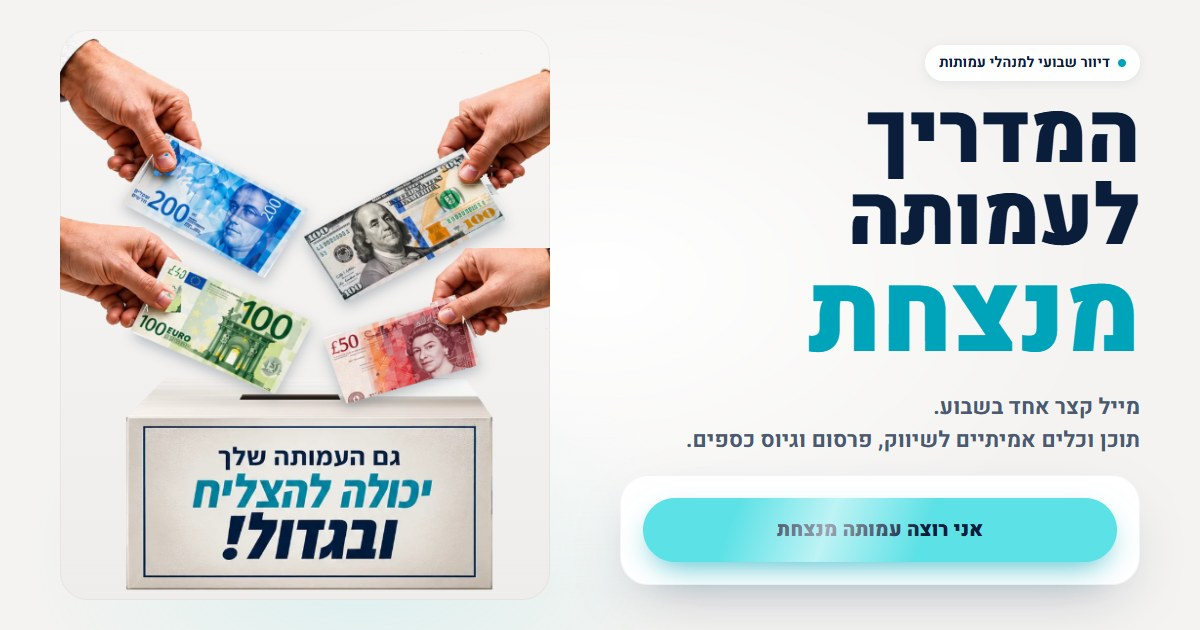
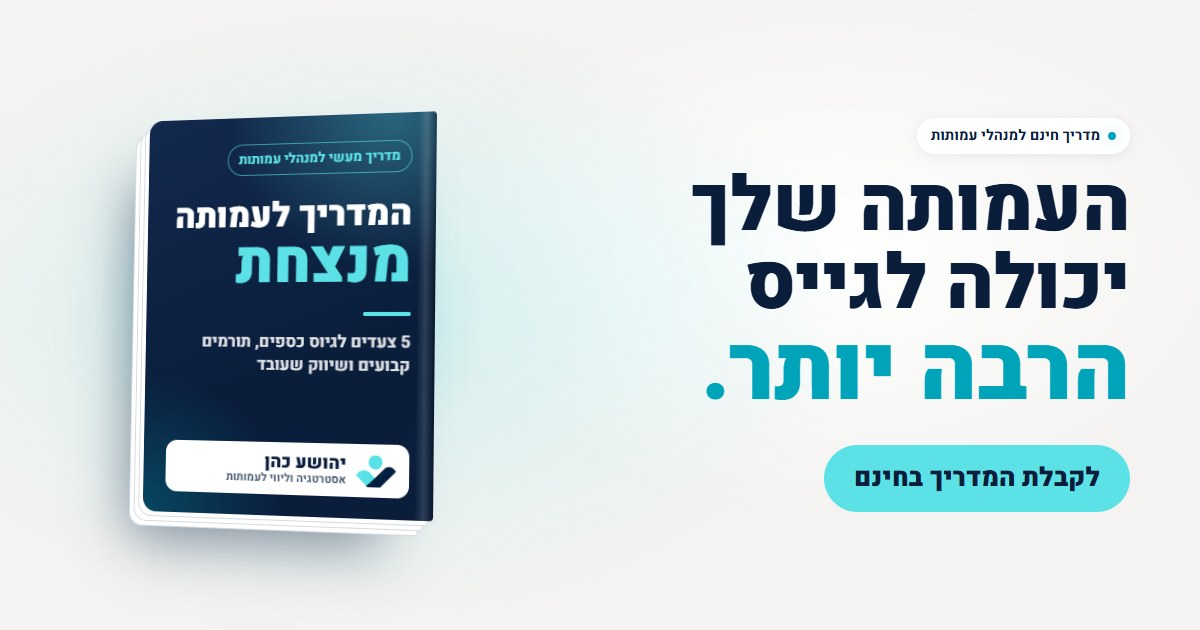
דף נחיתה חדש: קבלת המדריך לעמותה מנצחת במקום הרשמה לדיוור

diff --git a/index.html b/index.html
@@ -3,21 +3,21 @@
 <head>
 <meta charset="utf-8">
 <meta name="viewport" content="width=device-width, initial-scale=1, viewport-fit=cover">
-<title>המדריך לעמותה מנצחת | יהושע כהן</title>
-<meta name="description" content="מייל קצר אחד בשבוע למנהלי עמותות: תוכן וכלים אמיתיים לשיווק, פרסום וגיוס כספים.">
+<title>המדריך לעמותה מנצחת | מדריך חינם למנהלי עמותות | יהושע כהן</title>
+<meta name="description" content="מדריך חינם למנהלי עמותות: 5 צעדים מעשיים לגיוס כספים, תורמים קבועים ושיווק שעובד.">
 <meta name="theme-color" content="#0A1E3C">
 <meta property="og:type" content="website">
 <meta property="og:locale" content="he_IL">
-<meta property="og:title" content="המדריך לעמותה מנצחת">
-<meta property="og:description" content="מייל קצר אחד בשבוע: תוכן וכלים אמיתיים לשיווק, פרסום וגיוס כספים לעמותה שלך.">
-<meta property="og:image" content="https://yehoshua.co.il/assets/og.jpg">
+<meta property="og:title" content="המדריך לעמותה מנצחת – מדריך חינם למנהלי עמותות">
+<meta property="og:description" content="5 צעדים מעשיים לגיוס כספים, תורמים קבועים ושיווק שעובד. ישר למייל, בחינם.">
+<meta property="og:image" content="https://yehoshua.co.il/assets/og.jpg?v=guide1">
 <meta property="og:image:width" content="1200">
 <meta property="og:image:height" content="630">
 <meta property="og:url" content="https://yehoshua.co.il/">
 <link rel="icon" type="image/png" href="assets/favicon.png">
 <link rel="apple-touch-icon" href="assets/apple-touch-icon.png">
 <link rel="preload" href="assets/heebo-hebrew-900-normal.woff2" as="font" type="font/woff2" crossorigin>
-<link rel="stylesheet" href="styles.css?v=consent1">
+<link rel="stylesheet" href="styles.css?v=guide1">
 </head>
 <body>
 
@@ -26,18 +26,36 @@
     <img src="assets/mark.webp" alt="" width="54" height="40">
     <span><b>יהושע כהן</b><small>אסטרטגיה וליווי לעמותות</small></span>
   </a>
-  <a class="top-cta" href="#join">להצטרפות</a>
+  <a class="top-cta" href="#join">לקבלת המדריך</a>
 </header>
 
 <main>
   <!-- HERO -->
   <section class="hero" id="join">
-    <div class="hero-copy">
-      <p class="eyebrow"><span class="dot"></span>דיוור שבועי למנהלי עמותות</p>
-      <h1>המדריך לעמותה <em>מנצחת</em></h1>
-      <p class="lead">מייל קצר אחד בשבוע.<br>תוכן וכלים אמיתיים לשיווק, פרסום וגיוס כספים.</p>
+    <div class="hero-head">
+      <p class="eyebrow"><span class="dot"></span>מדריך חינם למנהלי עמותות</p>
+      <h1>העמותה שלך יכולה לגייס <em>הרבה יותר.</em></h1>
+      <p class="lead"><b>המדריך לעמותה מנצחת:</b> 5 צעדים מעשיים לגיוס כספים, לתורמים קבועים ולשיווק שעובד. מניסיון של 7 שנים בניהול עמותה.</p>
+    </div>
 
+    <div class="book-wrap" aria-hidden="true">
+      <div class="book">
+        <div class="cover">
+          <p class="cover-kicker">מדריך מעשי למנהלי עמותות</p>
+          <p class="cover-title">המדריך לעמותה <em>מנצחת</em></p>
+          <span class="cover-line"></span>
+          <p class="cover-sub">5 צעדים לגיוס כספים, תורמים קבועים ושיווק שעובד</p>
+          <div class="cover-brand">
+            <img src="assets/mark.webp" alt="" width="54" height="40">
+            <span><b>יהושע כהן</b><small>אסטרטגיה וליווי לעמותות</small></span>
+          </div>
+        </div>
+      </div>
+    </div>
+
+    <div class="hero-form">
       <form class="signup" data-form novalidate>
+        <p class="form-title">לאן לשלוח לך את המדריך?</p>
         <div class="field">
           <label for="f-name">שם מלא</label>
           <input id="f-name" name="name" type="text" autocomplete="name" required maxlength="80" placeholder="ישראל ישראלי">
@@ -50,54 +68,71 @@
         <input class="hp" name="website" tabindex="-1" autocomplete="off" aria-hidden="true">
         <label class="consent">
           <input type="checkbox" name="agree" value="yes">
-          <span data-consent-text>אני מאשר/ת לקבל מיהושע כהן את המייל השבועי "המדריך לעמותה מנצחת", הכולל תוכן מקצועי וגם דברי פרסומת. אפשר להסיר בכל רגע בלחיצה על "הסרה" בתחתית כל מייל.</span>
+          <span data-consent-text>אני מאשר/ת לקבל מיהושע כהן את המדריך במייל, ומדי פעם גם תוכן מקצועי, עדכונים והצעות (כולל דברי פרסומת). אפשר להסיר בכל רגע בלחיצה על "הסרה" בתחתית כל מייל.</span>
         </label>
-        <button type="submit" class="btn"><span>אני רוצה עמותה מנצחת</span></button>
-        <p class="fine">הפרטים שלך ישמשו רק לשליחת הדיוור, ולא יועברו לאף אחד.</p>
+        <button type="submit" class="btn"><span>אני רוצה את המדריך</span></button>
+        <p class="fine">חינם. המדריך נשלח ישר למייל שלך, והפרטים לא יועברו לאף אחד.</p>
         <p class="error" role="alert" data-error hidden></p>
       </form>
 
       <div class="done" data-done hidden tabindex="-1">
         <div class="done-check" aria-hidden="true"></div>
-        <h2>נרשמת, <span data-done-name></span>!</h2>
-        <p>המייל הראשון כבר בדרך אליך.</p>
-        <a class="btn btn-ghost" data-share target="_blank" rel="noopener">שתפו מנהל עמותה שאתם מכירים</a>
+        <h2>המדריך בדרך אליך, <span data-done-name></span>!</h2>
+        <p>שלחנו אותו עכשיו למייל שלך. לא רואה אותו? כדאי לבדוק גם בתיקיית "קידומי מכירות" או "ספאם".</p>
+        <a class="btn btn-ghost" data-share target="_blank" rel="noopener">שתף מנהל עמותה שאתה מכיר</a>
       </div>
-    </div>
-
-    <div class="stage-wrap" aria-hidden="true">
-      <canvas class="stage" data-stage></canvas>
     </div>
   </section>
 
   <!-- PAIN -->
   <section class="pain" data-reveal-group>
-    <p class="pain-line" data-reveal>יש לכם פעילות <b>חשובה מאוד.</b></p>
+    <p class="pain-line" data-reveal>יש לך פעילות <b>חשובה מאוד.</b></p>
     <p class="pain-line" data-reveal>אבל כדי לעשות אותה צריך <b>כסף ומשאבים.</b></p>
     <p class="pain-line pain-empty" data-reveal>והקופה... <b>ריקה.</b></p>
-    <p class="pain-turn" data-reveal>בואו נשנה את זה!</p>
+    <p class="pain-turn" data-reveal>בוא נשנה את זה!</p>
   </section>
 
-  <!-- WHAT YOU GET -->
+  <!-- WHAT'S IN THE GUIDE -->
   <section class="get">
-    <h2 class="sec-title" data-reveal>מה מגיע אליכם <em>כל שבוע</em></h2>
-    <div class="cards">
-      <article class="card" data-reveal>
-        <svg class="ic" viewBox="-60 -50 120 100" aria-hidden="true"><rect x="-48" y="-32" width="96" height="64" rx="8"/><path d="M-44-28 0 6 44-28M-44 28-14-2M44 28 14-2"/></svg>
-        <h3>מייל אחד. קצר. לעניין.</h3>
-        <p>פעם בשבוע, בלי הצפות ובלי חפירות.</p>
-      </article>
-      <article class="card" data-reveal>
-        <svg class="ic" viewBox="-60 -50 120 100" aria-hidden="true"><path d="M-30-2-8 20 36-28"/></svg>
-        <h3>תוכן וכלים אמיתיים</h3>
-        <p>דברים שאפשר ליישם בעמותה כבר מחר בבוקר.</p>
-      </article>
-      <article class="card" data-reveal>
-        <svg class="ic" viewBox="-60 -50 120 100" aria-hidden="true"><circle r="40"/><path d="M0-40V-26M0 26V40M-40 0H-26M26 0H40"/><path d="M-10 10 14-14M4-14H14V-4"/></svg>
-        <h3>מכל הכיוונים</h3>
-        <p>שיווק, פרסום וגיוס כספים — כל מה שעמותה צריכה כדי לצמוח.</p>
-      </article>
-    </div>
+    <h2 class="sec-title" data-reveal><em>5 דברים</em> שתקבל במדריך</h2>
+    <ol class="steps">
+      <li class="step" data-reveal>
+        <span class="step-n">1</span>
+        <div><h3>תוכנית גיוס שנתית בעמוד אחד</h3>
+        <p>כמה צריך, ממי ומתי. במקום לרדוף אחרי הכסף מחודש לחודש.</p></div>
+      </li>
+      <li class="step" data-reveal>
+        <span class="step-n">2</span>
+        <div><h3>איך הופכים תורם חד־פעמי לתורם קבוע</h3>
+        <p>מה עושים מיד אחרי התרומה הראשונה, כדי שהתורם יחזור שוב ושוב.</p></div>
+      </li>
+      <li class="step" data-reveal>
+        <span class="step-n">3</span>
+        <div><h3>הסיפור שפותח את הלב ואת הכיס</h3>
+        <p>איך לספר על הפעילות שלך כך שתורמים ירצו להיות חלק ממנה.</p></div>
+      </li>
+      <li class="step" data-reveal>
+        <span class="step-n">4</span>
+        <div><h3>שיווק לעמותה בלי תקציב פרסום</h3>
+        <p>וואטסאפ, מייל וקהילה: הכלים שעובדים היום, ואיך משתמשים בהם נכון.</p></div>
+      </li>
+      <li class="step" data-reveal>
+        <span class="step-n">5</span>
+        <div><h3>הטעויות שעולות לעמותות הכי הרבה כסף</h3>
+        <p>מה למדתי ב־7 שנים בשטח, כדי שאתה לא תצטרך ללמוד את זה בדרך הקשה.</p></div>
+      </li>
+    </ol>
+    <div class="get-cta" data-reveal><a class="btn" href="#join">אני רוצה את המדריך</a></div>
+  </section>
+
+  <!-- FOR WHOM -->
+  <section class="for">
+    <h2 class="sec-title" data-reveal>המדריך הזה <em>בשבילך</em> אם...</h2>
+    <ul class="for-list">
+      <li data-reveal>אתה מנהל עמותה או מוסד, ורוצה יציבות כלכלית אמיתית</li>
+      <li data-reveal>אתה מגייס כספים, ורוצה להביא יותר תורמים ולשמור עליהם</li>
+      <li data-reveal>נמאס לך לסיים כל חודש בלחץ של משכורות ותשלומים</li>
+    </ul>
   </section>
 
   <!-- WHO -->
@@ -105,10 +140,10 @@
     <div class="who-card" data-reveal>
       <img src="assets/logo.webp" alt="יהושע כהן — אסטרטגיה וליווי לעמותות" width="220" height="220" loading="lazy">
       <div>
-        <p class="who-kicker">מי כותב</p>
+        <p class="who-kicker">מי כתב את המדריך</p>
         <h2>7 שנים ניהלתי עמותה.</h2>
         <p class="who-words"><span>גייסתי.</span> <span>בניתי.</span> <span>ניהלתי.</span> <span>טעיתי.</span> <span>למדתי.</span> <span>הצלחתי.</span></p>
-        <p>ולמדתי מה באמת עובד. היום אני מביא את זה אליכם — מייל אחד בכל שבוע.</p>
+        <p>את מה שלמדתי בדרך, מה עובד, מה לא ומה הייתי עושה אחרת, כתבתי במדריך הזה. בשבילך.</p>
       </div>
     </div>
   </section>
@@ -116,9 +151,9 @@
   <!-- FINAL CTA -->
   <section class="final">
     <div class="final-card" data-reveal>
-      <h2>רוצים עמותה <em>מנצחת?</em></h2>
-      <p>הצטרפו לרשימת התפוצה.</p>
-      <a class="btn" href="#join" data-tojoin>להצטרפות</a>
+      <h2>מוכן לעמותה <em>מנצחת?</em></h2>
+      <p>המדריך מחכה לך. חינם, ישר למייל.</p>
+      <a class="btn" href="#join">לקבלת המדריך</a>
     </div>
   </section>
 </main>
@@ -129,9 +164,8 @@
   <p><a href="https://wa.me/972504167903" target="_blank" rel="noopener" dir="ltr">050-4167903</a></p>
 </footer>
 
-<a class="sticky-cta" href="#join" data-sticky>אני רוצה עמותה מנצחת</a>
+<a class="sticky-cta" href="#join" data-sticky>אני רוצה את המדריך</a>
 
-<script src="stage.js"></script>
-<script src="app.js?v=consent1"></script>
+<script src="app.js?v=guide1"></script>
 </body>
 </html>

diff --git a/styles.css b/styles.css
@@ -30,19 +30,23 @@ em{font-style:normal;color:var(--teal)}
 .top-cta:hover{transform:translateY(-1px)}
 
 /* hero */
-.hero{position:relative;display:grid;grid-template-columns:1fr;gap:8px;max-width:1200px;margin:0 auto;padding:28px clamp(16px,4vw,48px) 40px;scroll-margin-top:80px}
+.hero{position:relative;display:grid;grid-template-columns:1fr;grid-template-areas:"head" "book" "form";gap:8px;max-width:1200px;margin:0 auto;padding:28px clamp(16px,4vw,48px) 40px;scroll-margin-top:80px}
 .hero::before{content:"";position:absolute;inset:-80px 0 auto;height:900px;z-index:-1;
   background:radial-gradient(60% 50% at 50% 40%,#fff 0%,rgba(255,255,255,0) 70%),radial-gradient(40% 35% at 30% 70%,rgba(92,225,230,.16),rgba(92,225,230,0) 70%)}
 .eyebrow{display:inline-flex;align-items:center;gap:8px;margin:0 0 14px;padding:7px 14px;border-radius:999px;background:#fff;box-shadow:0 2px 10px rgba(10,30,60,.08);font-weight:700;font-size:14.5px}
 .dot{width:8px;height:8px;border-radius:50%;background:var(--teal);box-shadow:0 0 0 0 rgba(0,164,186,.5);animation:ping 2s infinite}
 @keyframes ping{70%{box-shadow:0 0 0 10px rgba(0,164,186,0)}100%{box-shadow:0 0 0 0 rgba(0,164,186,0)}}
-h1{margin:0;font-weight:900;font-size:clamp(42px,9.6vw,84px);line-height:.98;letter-spacing:-.5px}
-h1 em{display:block;font-size:1.32em;line-height:1.02}
-.lead{margin:18px 0 22px;font-size:clamp(18px,2.2vw,22px);font-weight:700;color:var(--muted)}
+.hero-head{grid-area:head}
+.hero-form{grid-area:form}
+h1{margin:0;font-weight:900;font-size:clamp(38px,8.4vw,70px);line-height:1.02;letter-spacing:-.5px;text-wrap:balance}
+h1 em{display:block;font-size:1.2em;line-height:1.05}
+.lead{margin:18px 0 8px;font-size:clamp(18px,2.2vw,22px);font-weight:400;color:var(--muted);max-width:560px}
+.lead b{font-weight:900;color:var(--navy)}
 
 /* form */
 .signup{position:relative}
 .signup,.done{background:#fff;border-radius:var(--radius);padding:22px;box-shadow:var(--shadow);border:1px solid rgba(10,30,60,.05);max-width:520px}
+.form-title{margin:0 4px 14px;font-size:21px;font-weight:900}
 .field{margin-bottom:14px}
 .field label{display:block;font-weight:900;font-size:15px;margin:0 4px 6px}
 .field input{width:100%;font:inherit;font-size:18px;font-weight:700;color:var(--ink);padding:15px 16px;border-radius:16px;border:2px solid var(--line);background:#fbfbfa;transition:border-color .2s,box-shadow .2s,background .2s}
@@ -81,10 +85,27 @@ h1 em{display:block;font-size:1.32em;line-height:1.02}
 .btn-ghost::after{display:none}
 @keyframes pop{from{transform:scale(.9);opacity:0}}
 
-/* stage */
-.stage-wrap{position:relative;margin:14px auto 0;width:100%;max-width:520px;aspect-ratio:835/1070;border-radius:var(--radius);overflow:hidden;
-  background:linear-gradient(180deg,#f7f6f4 0%,var(--paper-2) 100%);box-shadow:inset 0 0 0 1px rgba(10,30,60,.05)}
-.stage{width:100%;height:100%;display:block}
+/* guide book */
+.book-wrap{grid-area:book;position:relative;display:grid;place-items:center;padding:14px 0 30px;perspective:1600px}
+.book-wrap::before{content:"";position:absolute;inset:0 6%;background:radial-gradient(closest-side,rgba(92,225,230,.38),rgba(92,225,230,0));z-index:-1}
+.book{position:relative;width:min(50vw,210px);aspect-ratio:3/4;container-type:inline-size;transform:rotateY(-16deg) rotateX(3deg);animation:float 7s ease-in-out infinite;
+  border-radius:14px 4px 4px 14px;
+  box-shadow:-5px 5px 0 -1px #fff,-5px 5px 0 0 #d5dae1,-10px 10px 0 -1px #fff,-10px 10px 0 0 #d5dae1,-15px 15px 0 -1px #fff,-15px 15px 0 0 #d5dae1,-34px 44px 60px -18px rgba(10,30,60,.5)}
+@keyframes float{50%{transform:rotateY(-12deg) rotateX(3deg) translateY(-10px)}}
+.cover{position:absolute;inset:0;display:flex;flex-direction:column;padding:9cqw 8cqw 7cqw;border-radius:inherit;overflow:hidden;color:#fff;
+  background:radial-gradient(80% 55% at 85% 0%,rgba(92,225,230,.34),rgba(92,225,230,0) 70%),radial-gradient(70% 50% at 0% 100%,rgba(0,164,186,.30),rgba(0,164,186,0) 70%),linear-gradient(160deg,#13294d,var(--navy) 60%)}
+.cover::after{content:"";position:absolute;top:0;bottom:0;right:0;width:6cqw;background:linear-gradient(90deg,rgba(255,255,255,0),rgba(255,255,255,.14) 45%,rgba(0,0,0,.28))}
+.cover p{margin:0;position:relative}
+.cover-kicker{align-self:flex-start;padding:1.6cqw 3.6cqw;border-radius:999px;border:1.5px solid rgba(92,225,230,.6);color:var(--cyan);font-weight:700;font-size:4.6cqw}
+.cover-title{margin-top:8cqw!important;font-weight:900;font-size:11.6cqw;line-height:1.02}
+.cover-title em{display:block;color:var(--cyan);font-size:1.72em;line-height:1}
+.cover-line{display:block;width:16cqw;height:1.6cqw;margin:6cqw 0 5cqw;border-radius:9px;background:var(--cyan)}
+.cover-sub{font-size:5.6cqw;font-weight:700;line-height:1.35;opacity:.86}
+.cover-brand{margin-top:auto;display:flex;align-items:center;gap:3cqw;padding:3.2cqw 4cqw;border-radius:4cqw;background:#fff;color:var(--navy);position:relative}
+.cover-brand img{width:14cqw;height:auto}
+.cover-brand span{display:flex;flex-direction:column;line-height:1.1}
+.cover-brand b{font-weight:900;font-size:6cqw}
+.cover-brand small{font-weight:700;font-size:3.8cqw;color:var(--muted)}
 
 /* pain */
 .pain{max-width:1000px;margin:40px auto 0;padding:72px clamp(20px,5vw,48px);background:linear-gradient(180deg,#e3e5e9,#d9dce2);border-radius:clamp(0px,3vw,40px);text-align:center}
@@ -93,14 +114,22 @@ h1 em{display:block;font-size:1.32em;line-height:1.02}
 .pain-empty b{font-size:1.35em}
 .pain-turn{display:inline-block;margin:26px 0 0;font-size:clamp(36px,7.6vw,68px);font-weight:900;color:var(--teal);text-shadow:0 0 30px rgba(92,225,230,.35)}
 
-/* cards */
+/* what is in the guide */
 .get{max-width:1200px;margin:0 auto;padding:84px clamp(16px,4vw,48px) 40px}
 .sec-title{margin:0 0 34px;text-align:center;font-size:clamp(32px,6vw,54px);font-weight:900;line-height:1.1}
-.cards{display:grid;grid-template-columns:1fr;gap:16px}
-.card{background:#fff;border-radius:var(--radius);padding:28px 24px;box-shadow:0 10px 30px -18px rgba(10,30,60,.35);border:1px solid rgba(10,30,60,.05)}
-.card .ic{width:64px;height:54px;fill:none;stroke:var(--teal);stroke-width:8;stroke-linecap:round;stroke-linejoin:round;margin-bottom:10px}
-.card h3{margin:0 0 6px;font-size:24px;font-weight:900}
-.card p{margin:0;font-size:17.5px;color:var(--muted);font-weight:400}
+.steps{list-style:none;margin:0 auto;padding:0;max-width:860px;display:grid;gap:14px}
+.step{display:flex;align-items:flex-start;gap:18px;background:#fff;border-radius:var(--radius);padding:22px 22px;box-shadow:0 10px 30px -18px rgba(10,30,60,.35);border:1px solid rgba(10,30,60,.05)}
+.step-n{flex:none;display:grid;place-items:center;width:52px;height:52px;border-radius:50%;background:var(--navy);color:var(--cyan);font-weight:900;font-size:26px;line-height:1}
+.step h3{margin:2px 0 4px;font-size:clamp(20px,2.6vw,24px);font-weight:900;line-height:1.25}
+.step p{margin:0;font-size:17.5px;color:var(--muted)}
+.get-cta{max-width:420px;margin:30px auto 0}
+
+/* for whom */
+.for{max-width:1000px;margin:0 auto;padding:44px clamp(16px,4vw,48px) 20px}
+.for-list{list-style:none;margin:0 auto;padding:0;max-width:760px;display:grid;gap:12px}
+.for-list li{position:relative;padding:18px 62px 18px 20px;border-radius:20px;background:#fff;border:1px solid rgba(10,30,60,.06);font-size:clamp(18px,2.2vw,21px);font-weight:700;line-height:1.4}
+.for-list li::before{content:"";position:absolute;right:20px;top:50%;width:28px;height:28px;margin-top:-14px;border-radius:50%;background:var(--cyan)}
+.for-list li::after{content:"";position:absolute;right:30px;top:50%;width:7px;height:13px;margin-top:-9px;border:solid var(--navy);border-width:0 3px 3px 0;transform:rotate(45deg)}
 
 /* who */
 .who{max-width:1000px;margin:0 auto;padding:40px clamp(16px,4vw,48px)}
@@ -139,14 +168,16 @@ h1 em{display:block;font-size:1.32em;line-height:1.02}
 .pain-turn[data-reveal].in{transform:none;transition:opacity .5s,transform .6s cubic-bezier(.2,1.6,.4,1)}
 
 @media (min-width:720px){
-  .cards{grid-template-columns:repeat(3,1fr)}
+  .step{padding:26px 28px}
   .who-card{grid-template-columns:220px 1fr;text-align:right;padding:36px}
   .who-card img{width:220px}
   .who-words{justify-content:flex-start}
 }
 @media (min-width:960px){
-  .hero{grid-template-columns:1.05fr .95fr;gap:48px;align-items:center;padding-top:56px;padding-bottom:64px;min-height:calc(100vh - 70px)}
-  .stage-wrap{margin:0;max-width:none}
+  .hero{grid-template-columns:1.1fr .9fr;grid-template-areas:"head book" "form book";column-gap:56px;row-gap:22px;align-items:center;padding-top:48px;padding-bottom:64px;min-height:calc(100vh - 70px)}
+  .hero-head{align-self:end}
+  .hero-form{align-self:start}
+  .book{width:min(30vw,370px)}
   .sticky-cta{display:none}
 }
 @media (prefers-reduced-motion:reduce){

diff --git a/app.js b/app.js
@@ -1,4 +1,4 @@
-/* Sign-up form → CRM contacts + Google Sheet backup (via Apps Script web app), scroll reveals, sticky CTA. */
+/* Guide sign-up form → CRM contacts + Google Sheet backup (via Apps Script web app), scroll reveals, sticky CTA. */
 (function () {
   // Apps Script web-app URL (Deploy → Web app → URL ending in /exec)
   const ENDPOINT = 'https://script.google.com/macros/s/AKfycbyFUd9tqSYrMLyESupMnim3WPqR7NYX4tC6zbeNpuh9QOF0Hil6xjjPtKsa3J7ocom3NQ/exec';
@@ -43,11 +43,10 @@
     form.hidden = true;
     done.querySelector('[data-done-name]').textContent = name.split(' ')[0] || name;
     const url = location.origin + location.pathname + '?src=share';
-    done.querySelector('[data-share]').href = 'https://wa.me/?text=' + encodeURIComponent('מצאתי מייל שבועי קצר עם כלים אמיתיים לשיווק, פרסום וגיוס כספים לעמותות. שווה להצטרף: ' + url);
+    done.querySelector('[data-share]').href = 'https://wa.me/?text=' + encodeURIComponent('מצאתי מדריך חינם למנהלי עמותות: 5 צעדים מעשיים לגיוס כספים, תורמים קבועים ושיווק שעובד. שווה לקבל: ' + url);
     done.hidden = false; done.focus({ preventScroll: true });
     const r = done.getBoundingClientRect();
     if (r.top < 70 || r.bottom > innerHeight) window.scrollBy({ top: r.top - 90, behavior: 'smooth' });
-    if (window.stageCelebrate) window.stageCelebrate(name);
   }
 
   let sending = false;
@@ -59,7 +58,7 @@
     if (!EMAIL_RE.test(email)) return fail('נראה שכתובת המייל לא תקינה', emailIn);
     if (!agreeIn.checked) {
       consentLabel.setAttribute('aria-invalid', 'true');
-      return fail('כדי להירשם צריך לסמן את תיבת האישור לקבלת המייל', agreeIn);
+      return fail('כדי לקבל את המדריך צריך לסמן את תיבת האישור', agreeIn);
     }
     if (form.elements.website.value) return showDone(name); // bot
     sending = true; btn.setAttribute('aria-busy', 'true'); errBox.hidden = true;
